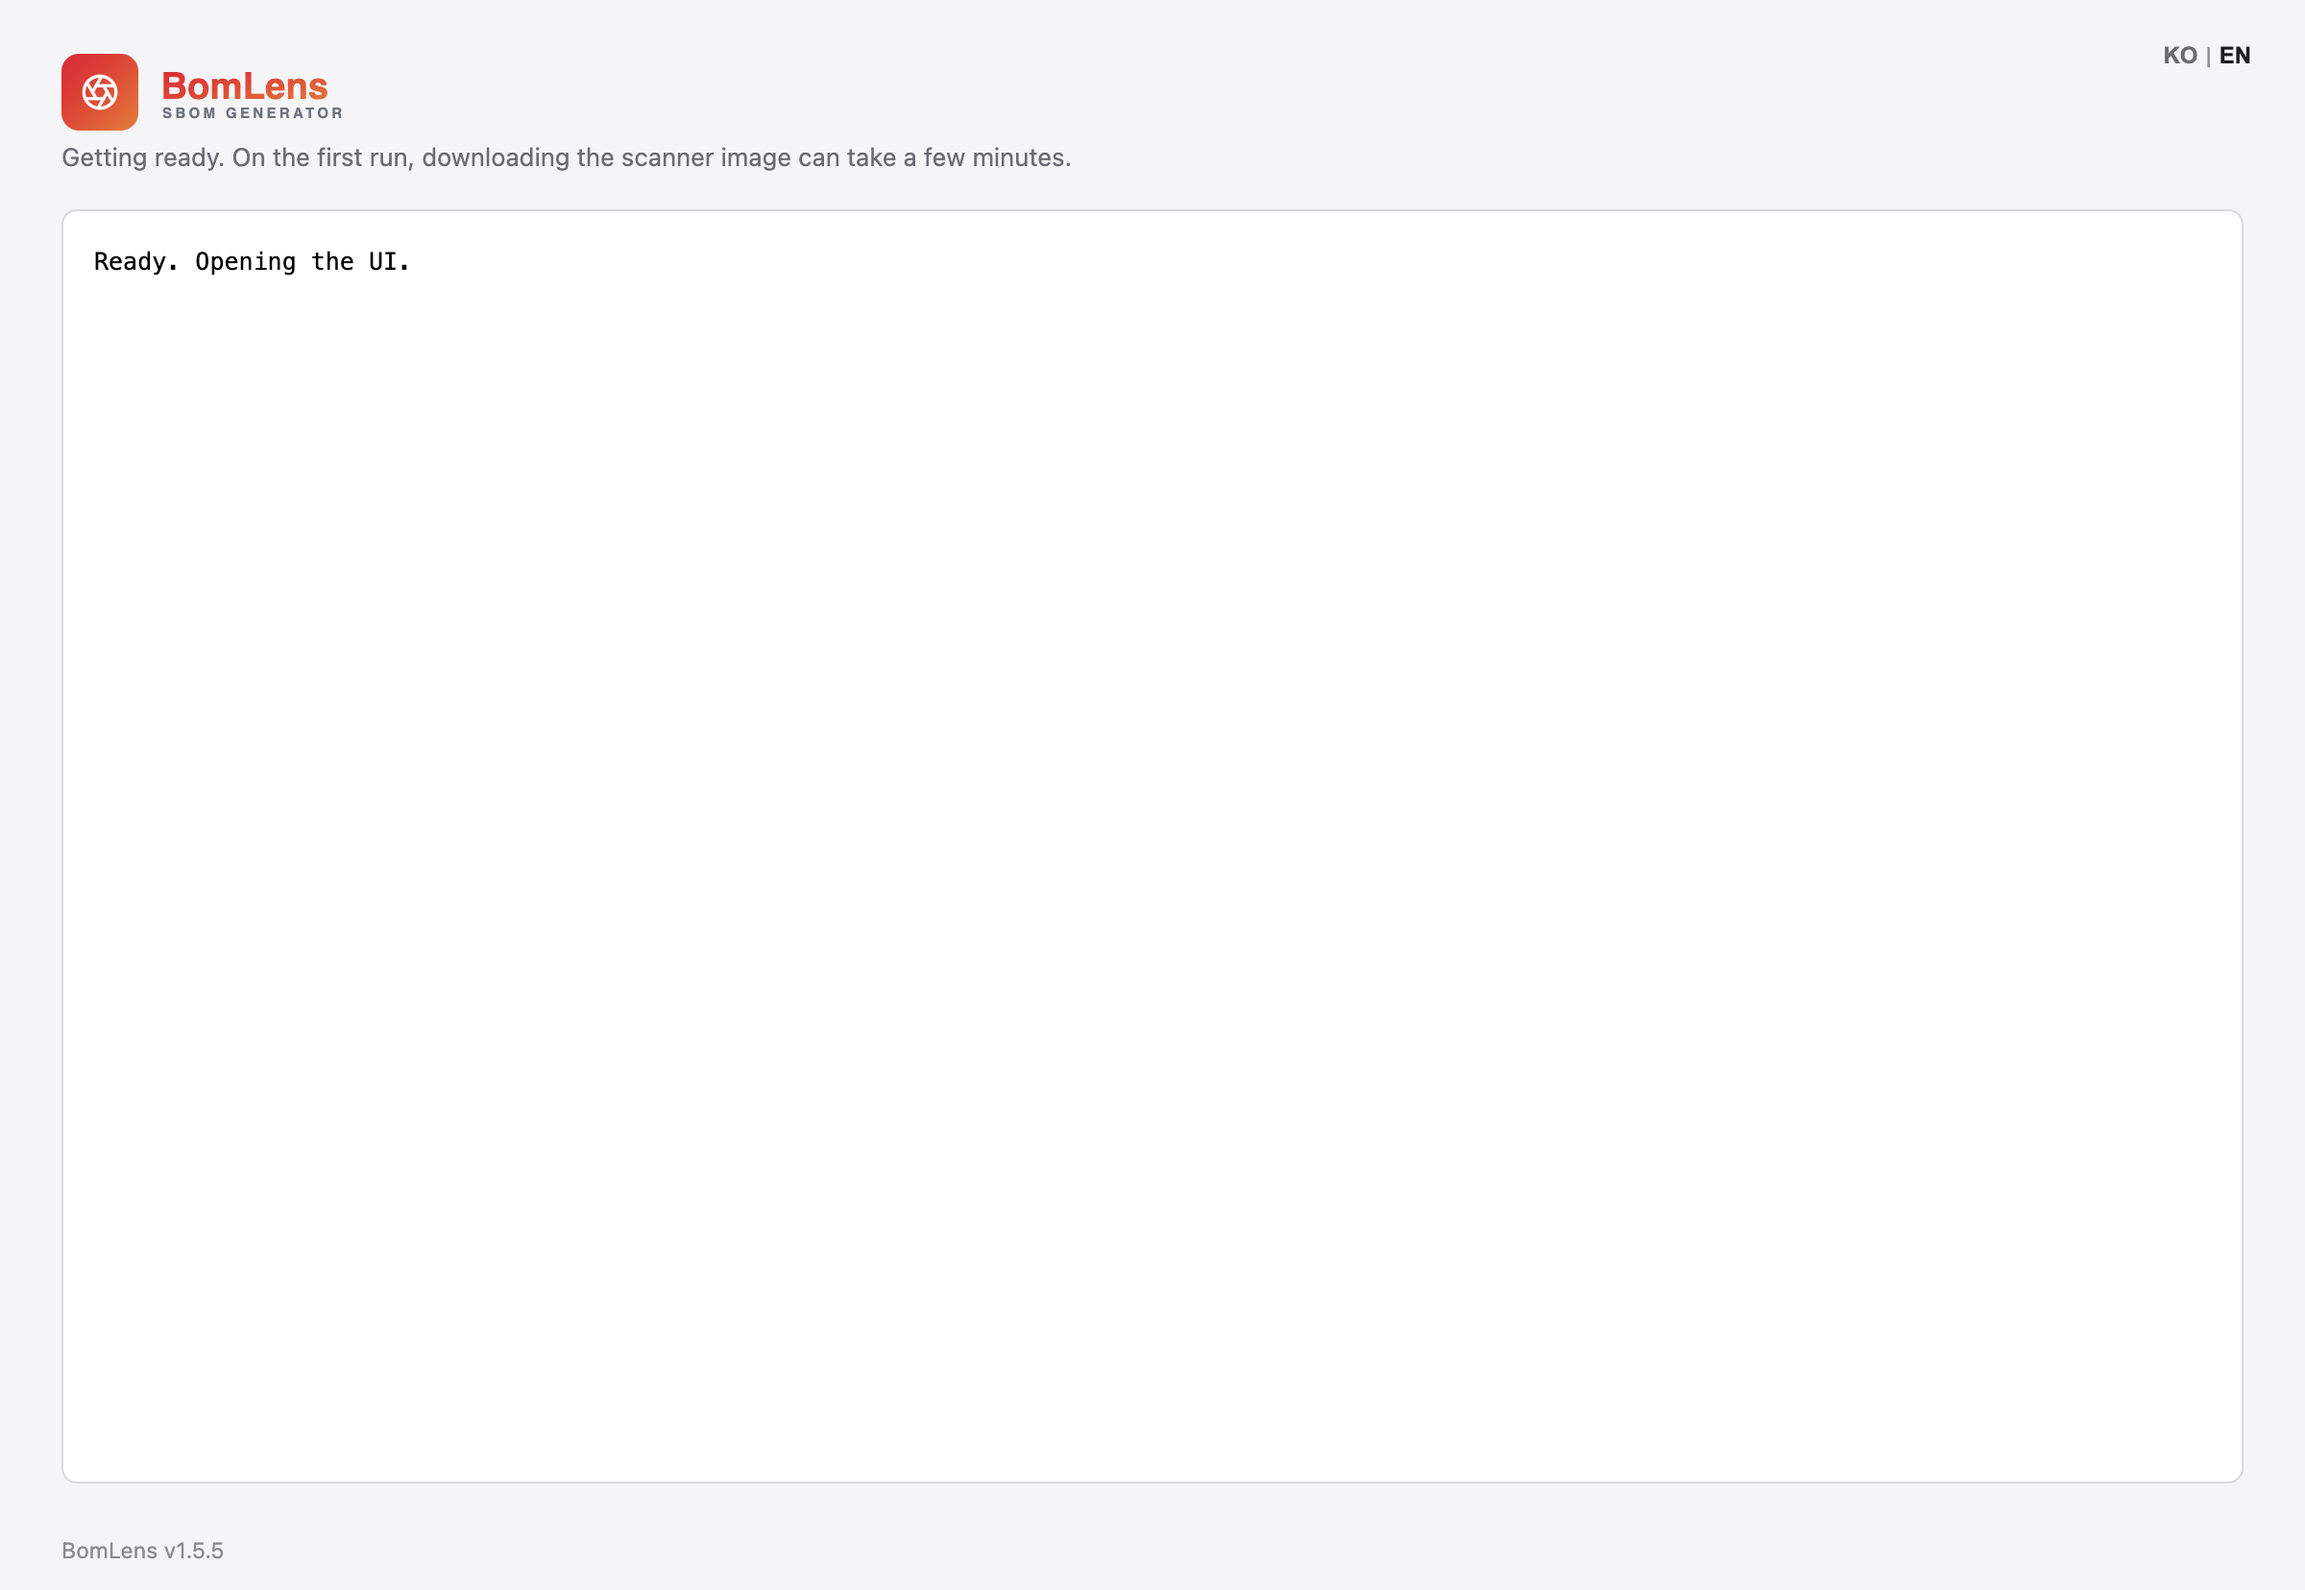
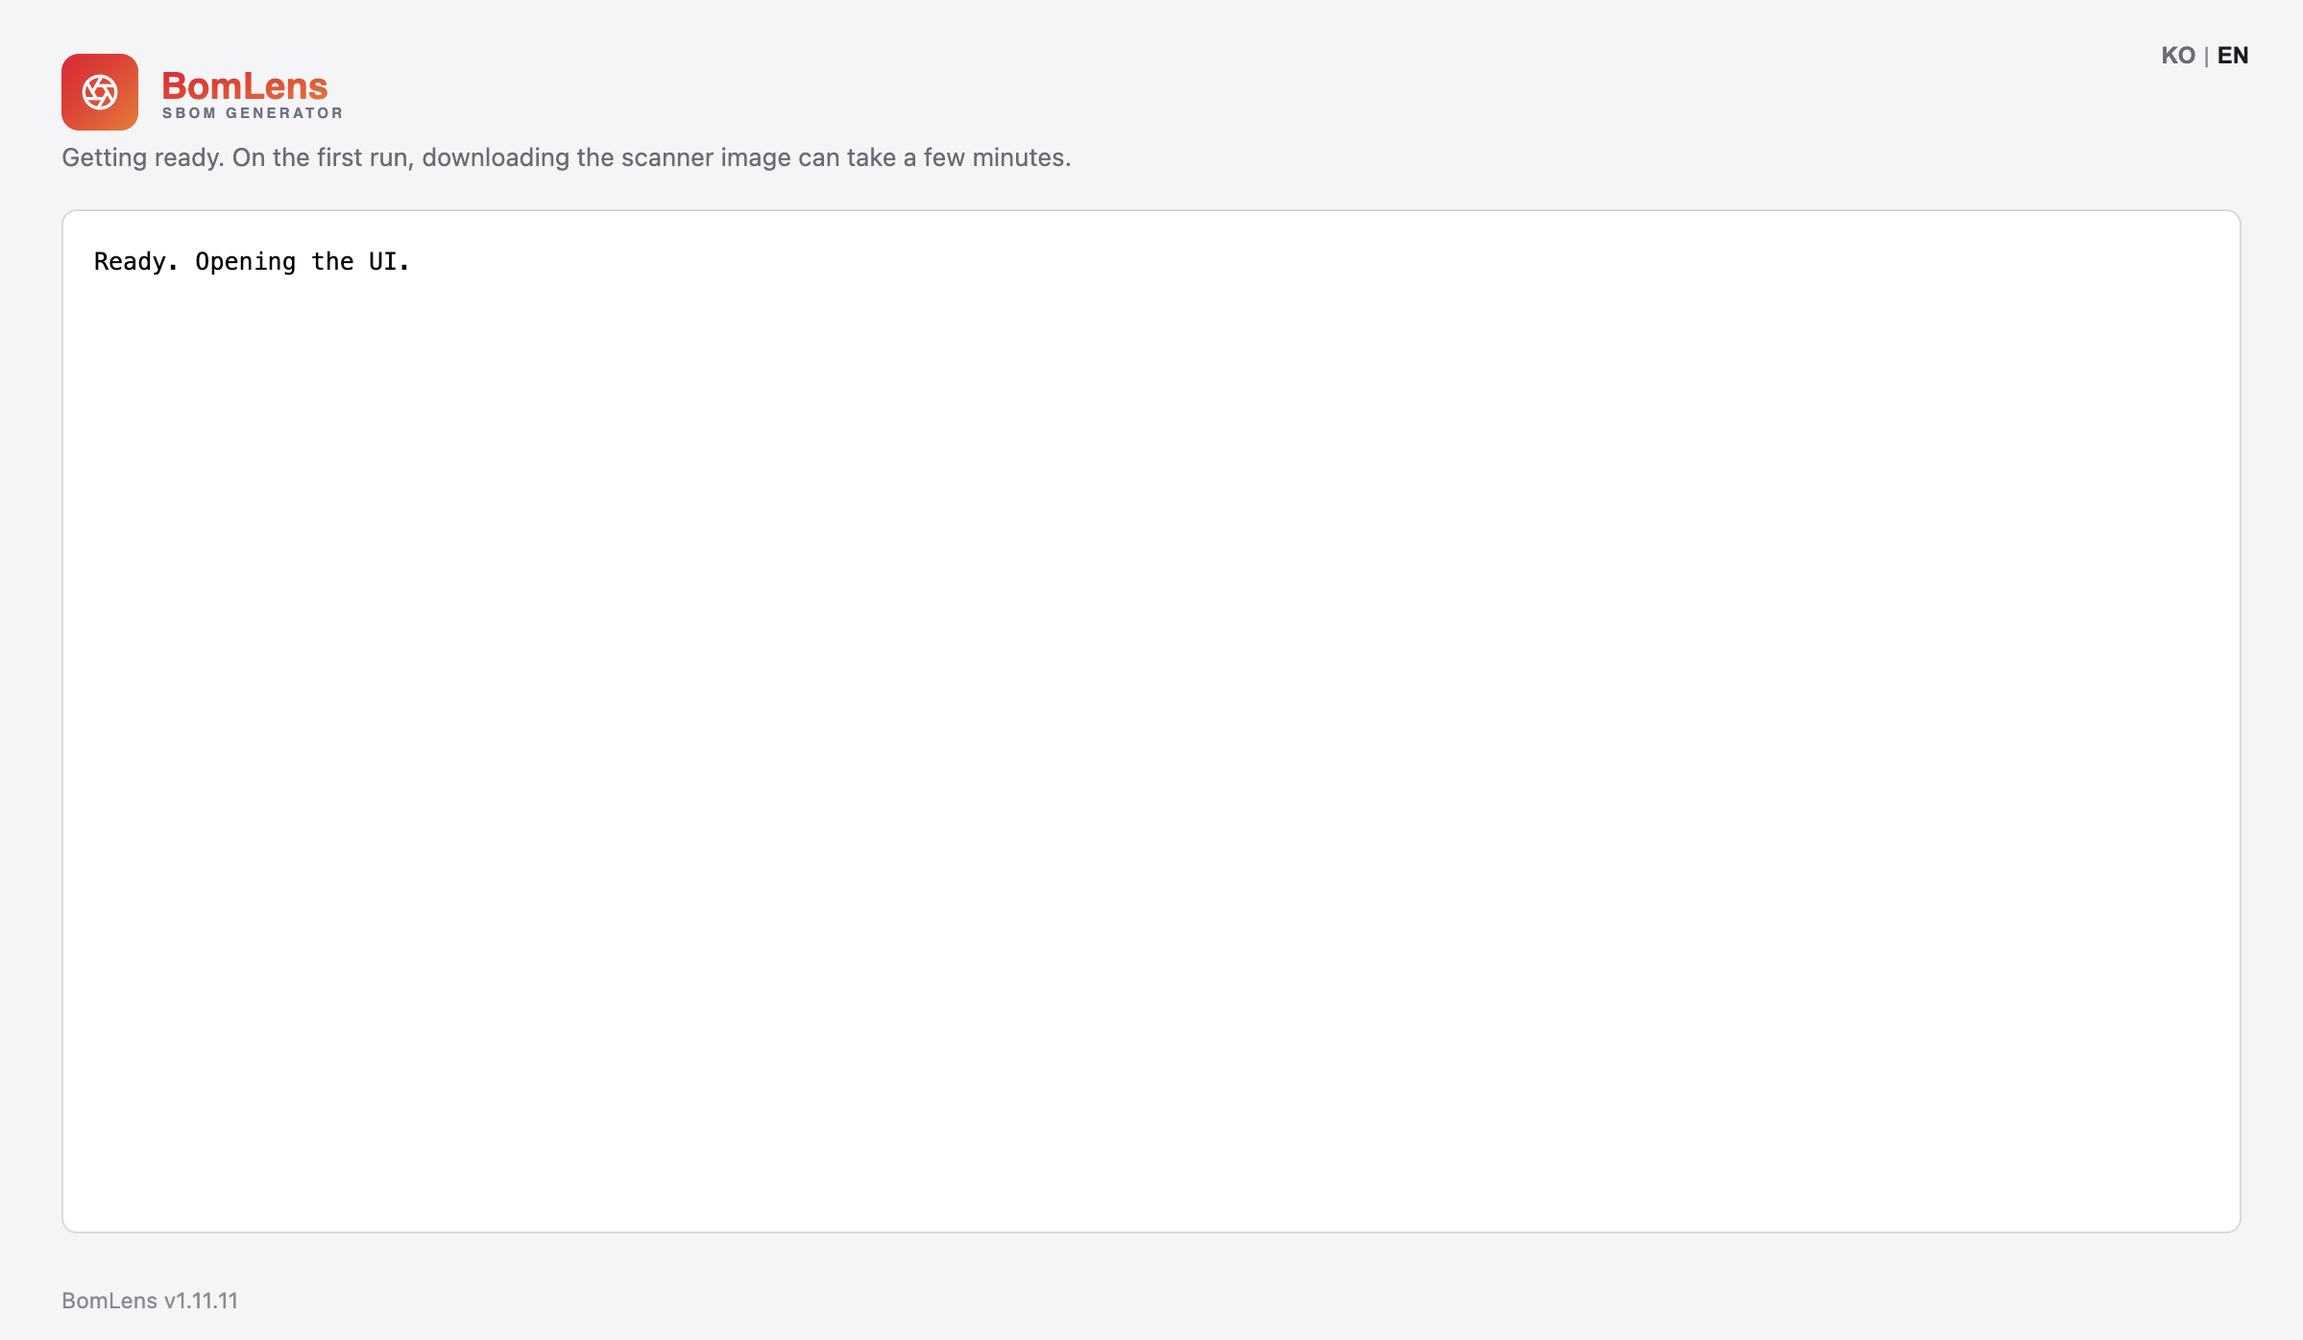
docs(images): recapture the desktop app screenshots
Claude-Session: https://claude.ai/code/session_01StKmyTGPQE57Wwgx4cVZZ9

diff --git a/electron/tests/capture.spec.ts b/electron/tests/capture.spec.ts
@@ -34,3 +34,23 @@ for (const { lang, file } of SHOTS) {
     }
   });
 }
+
+// Regenerates the Docker-missing guidance screenshot (docs/images/
+// desktop-docker-missing.png), used unchanged by both the en and ko docs.
+// SBOM_SMOKE_SCREEN=docker-missing (main.mjs) seeds the screen directly
+// instead of waiting on a real Docker check, so this is deterministic like
+// the start-screen shots above.
+test("capture the Docker-missing screen", async () => {
+  test.skip(process.env.SBOM_CAPTURE !== "1", "opt-in via SBOM_CAPTURE=1");
+  const app = await electron.launch({
+    args: [appRoot],
+    env: { ...process.env, SBOM_SMOKE: "1", SBOM_SMOKE_SCREEN: "docker-missing", SBOM_LANG: "ko" },
+  });
+  try {
+    const win = await app.firstWindow();
+    await win.locator("#version").waitFor();
+    await win.screenshot({ path: path.join(imagesDir, "desktop-docker-missing.png") });
+  } finally {
+    await app.close();
+  }
+});
